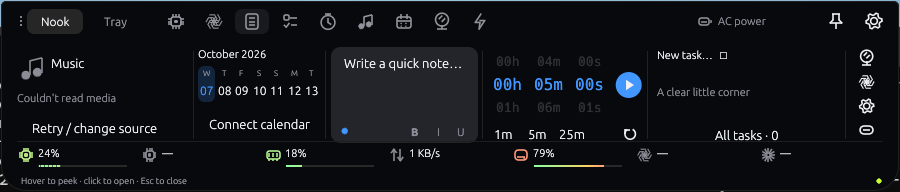
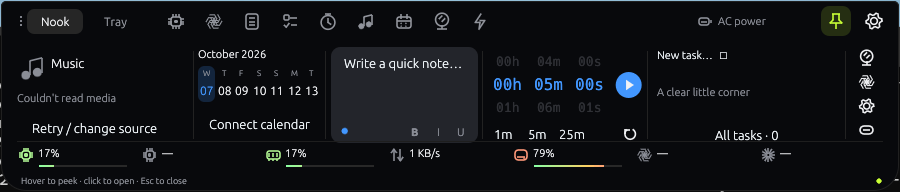
Document verified development-signed Nook build and target limitations

Changed region(s): [[0.9022, 0.0312, 0.9644, 0.1875], [0.3111, 0.7812, 0.3422, 0.8125], [0.0311, 0.7812, 0.0622, 0.8125]]

diff --git a/docs/VALIDATION.md b/docs/VALIDATION.md
@@ -15,7 +15,10 @@ Checked on 8 October 2026.
[1 lines of base64/hex data omitted]
 - The fresh replacement boundary found zero HUD processes and both earlier native package directories already absent. No Quit, forced termination or package deletion is claimed for that boundary. The stale owned Desktop shortcut, startup entry and backed-up unchanged legacy uninstall registration were retired/repaired during installation. The existing enabled startup choice was migrated to the replacement; installation did not enable a previously disabled choice.
 - Subsequent target Defender events 1116/1117 at 2026-10-07 19:49:22/24 UTC report `Behavior:Win32/Persistence.A!ml` and successful quarantine of the installed executable and Start Menu shortcut. The executable was absent and no target native HUD was running at the next check. Installation above is historical; target launch, explicit Nook selection and operational acceptance remain OPEN/BLOCKED. Legitimate opt-in startup/migration code is present, but the exact behavioral heuristic trigger and whether this is a false positive are unknown. No restore, protection exclusion or trust change is used as acceptance evidence.
-- Development Authenticode signing is being checked separately through the manual workflow; no completed development package, public publisher trust or Defender clearance is claimed until its receipt is recorded. Public alpha.6 update signatures remain distinct from OS signatures.
+- The first development-signing attempt [37682274154](https://github.com/ajaxcbcb/neon-hud/actions/runs/37682274154) passed build/tests but rejected the timestamp input. [Retry 37684027154](https://github.com/ajaxcbcb/neon-hud/actions/runs/37684027154) signed, then stalled in an unlocalized trust/verification stage and was cancelled; no package was accepted.
+- The [development-signed Nook run](https://github.com/ajaxcbcb/neon-hud/actions/runs/37689111604), source `4c116dc60ed43e36a3ff19d0c118805081aefb4f`, passed 49 native tests, locked formatting/dependencies and a fresh release build. SHA-256 Authenticode with an RFC3161 SHA-256 timestamp verified through SignTool and PowerShell under temporary hosted-VM trust. Exact Root/My certificates and persisted CNG keys were absent before packaging; injected exit-7 and timeout cases also passed cleanup. The packaged executable and public certificate hashes matched their signing receipt.
+- The signed binary passed actual collapsed/peek/expanded/pinned/Escape input, Controls before secondary release, all 11 Nook views, saved notes/tasks/running timer, executable/window icons and normal Quit with exit code 0. Its expanded [Nook capture](assets/native-nook.png) was inspected. The three downloaded evidence artifact digests matched GitHub metadata and the exact source/run bindings; only receipts and PNGs were saved locally, with no app executable or package extraction.
[1 lines of base64/hex data omitted]
 
 ## Native Nook alpha.5 acceptance
 

diff --git a/docs/releases/v0.2.0-alpha.6.md b/docs/releases/v0.2.0-alpha.6.md
@@ -39,7 +39,7 @@ Alpha.3 and later can use **Preferences → Startup & updates → Check now → 
 
 Alpha.6 [signed publication](https://github.com/ajaxcbcb/neon-hud/actions/runs/37662192273) passed Windows/Mac tests, builds, packaging, physical Windows controls and independent signature verification. All eight public asset sizes/digests, archive architecture and bundled notices were checked. The [public alpha.4-to-alpha.6 GUI update](https://github.com/ajaxcbcb/neon-hud/actions/runs/37663561512) passed actual Check/Download/Restart input, tamper rejection, normal replacement startup, retained Pill/settings/startup and replacement Controls/Settings/Quit. The earlier [exact-source acceptance](https://github.com/ajaxcbcb/neon-hud/actions/runs/37655666304) also passed. Target installation is checked separately in [Validation](../VALIDATION.md).
 
-The target installation subsequently had its executable quarantined by Windows Defender (`Behavior:Win32/Persistence.A!ml`). Target runtime and Nook selection remain blocked. Existing profiles retain Pill until Nook is explicitly selected. A separate self-signed development package is being verified; it is not publicly trusted signing, does not establish Defender clearance and does not alter this release's assets or updater feed.
+The target installation subsequently had its executable quarantined by Windows Defender (`Behavior:Win32/Persistence.A!ml`). Target runtime and Nook selection remain blocked. Existing profiles retain Pill until Nook is explicitly selected. The separate [self-signed development package](https://github.com/ajaxcbcb/neon-hud/actions/runs/37689111604) passed 49 native tests, timestamp/signature verification, certificate/key cleanup and physical Nook input. It is not publicly trusted signing, does not establish Defender clearance and does not alter this release's assets or updater feed.
 
 The verified public Windows package was installed on the target on 2026-10-08: all 14 extracted file hashes matched, original/native profiles and Claude configuration were retained, shortcuts were updated, and the previously enabled startup choice was preserved. This package installation is separate from the hosted updater proof above; target runtime checks are detailed in [Validation](../VALIDATION.md).
 

diff --git a/docs/releases/MAINTENANCE.md b/docs/releases/MAINTENANCE.md
@@ -18,6 +18,8 @@ Dispatch [native.yml](../../.github/workflows/native.yml) with `development_sign
 
 The `native-windows-self-signed-development` artifact contains the complete license-bearing ZIP, public `.cer`, signature receipt and checksums. Its honest publisher label is **Neon HUD Development**. Do not import its certificate into a user's trust stores or describe it as publicly trusted. Authenticode integrity, updater authenticity, Defender determination and observed target runtime are separate checks. This test artifact is not attached to a production release or written to an update feed. No private key or PFX is exported.
 
+[Accepted development run 37689111604](https://github.com/ajaxcbcb/neon-hud/actions/runs/37689111604), source `4c116dc60ed43e36a3ff19d0c118805081aefb4f`, passed all signing/cleanup/negative-case checks and physical signed Nook interactions. The download digests and receipt bindings were independently checked. Exact executable/ZIP hashes and the still-open target Defender/runtime gates are recorded in [Validation](../VALIDATION.md).
+
 Timestamping uses [DigiCert's documented RFC3161 endpoint](https://knowledge.digicert.com/solution/troubleshooting-timestamping-problems) with `/tr http://timestamp.digicert.com /td SHA256`; SignTool verifies the signed timestamp response. The job verifies the packaged executable/certificate hashes and records public signature metadata and archive checksums in its log.
 
 Signing, trust import and both independent verifiers have 120-second child-process limits and UTC stage diagnostics. The CI-only supervisor can stop only its own child tree. Injected nonzero-exit and timeout scenarios must confirm removal of the exact certificate and persisted key. A public metadata journal records their identity before any trust import, so an `always()` cleanup step can retry even after a partially completed import. Diagnostics upload on failure; no private key is exported. The signing step and cleanup step also have workflow deadlines. A forcibly terminated job cannot guarantee that `finally` executes; disposal of the GitHub-hosted VM is the last containment boundary, and no interrupted job supplies an accepted package.

diff --git a/README.md b/README.md
@@ -27,7 +27,7 @@ Actual Windows CI capture. The appearance preview is labeled **SAMPLE DATA**. Bu
 
 Keep the bundled license and notice files with the app. These are preview packages without OS code signing or macOS notarization. Native Intel Mac packages are not supplied in this release; the older WebView release has a universal Mac package.
 
-The target Windows alpha.6 executable was subsequently quarantined by Microsoft Defender; target launch and Nook acceptance remain blocked. A separate self-signed development build is being verified through the [development signing workflow](docs/releases/MAINTENANCE.md#self-signed-windows-development-build). Its certificate is not publicly trusted and does not clear a Defender detection. It does not replace the published alpha.6 assets or update feed.
+The target Windows alpha.6 executable was subsequently quarantined by Microsoft Defender; target launch and Nook acceptance remain blocked. The separate [self-signed development build](https://github.com/ajaxcbcb/neon-hud/actions/runs/37689111604) passed 49 native tests, timestamp/signature verification, certificate/key cleanup and physical Nook controls. Its certificate is not publicly trusted and does not establish Defender clearance. It does not replace the published alpha.6 assets or update feed. See [development signing](docs/releases/MAINTENANCE.md#self-signed-windows-development-build) and [validation](docs/VALIDATION.md) for the exact source and receipts.
 
 The first configuration step is **Appearance**, followed by **Connections** and **Preferences**. Pick Neon Circuit, Cyberpunk Night or Aurora, and Quiet, Playful or Chaotic motion. **Preferences → Instruments** chooses Nook or the floating pill, selected drives and metrics. **Preferences → Startup & updates** controls login startup and updates. Startup is opt-in; replacing an installation should preserve its existing enabled/disabled choice.
 

diff --git a/src-native/README.md b/src-native/README.md
@@ -17,7 +17,7 @@ In the floating pill, drag the dotted grip to move, double click it to compress,
 
 For an upgrade, leave the profile and shared bridge data intact, use the existing updater when supported, and retire the previous package only after the replacement launches. A portable ZIP has no NSIS setup/uninstaller. Keep bundled licenses and notices; update signatures are separate from OS code signing.
 
-Existing profiles retain Pill unless Nook is selected in Preferences. Layout lives in `nook-productivity.json` under `presentation.mode`; other settings, notes, tasks and timers must be retained when changing it. The target alpha.6 executable was quarantined by Defender, so its launch/layout acceptance is pending. [Development signing](../docs/releases/MAINTENANCE.md#self-signed-windows-development-build) produces a separate self-signed test package without public publisher trust or Defender clearance.
+Existing profiles retain Pill unless Nook is selected in Preferences. Layout lives in `nook-productivity.json` under `presentation.mode`; other settings, notes, tasks and timers must be retained when changing it. The target alpha.6 executable was quarantined by Defender, so its launch/layout acceptance is pending. The separate [development-signed build](https://github.com/ajaxcbcb/neon-hud/actions/runs/37689111604) passed signature/timestamp verification, exact temporary certificate/key cleanup and real Nook input. [Development signing](../docs/releases/MAINTENANCE.md#self-signed-windows-development-build) does not establish public publisher trust or Defender clearance, and this test package is outside the automatic-update feed.
 
 ## Interaction
 

diff --git a/CHANGELOG.md b/CHANGELOG.md
@@ -4,7 +4,7 @@ Current native preview: [0.2.0-alpha.6](https://github.com/ajaxcbcb/neon-hud/rel
 
 ## Unreleased
 
-- Separate Windows development-signing workflow: fresh locked native build, non-exportable ephemeral certificate, SHA-256 Authenticode/RFC3161 timestamp verification and labeled package with public certificate and receipt. Verification trust is confined to the disposable CI account and removed afterward. This is not publicly trusted publisher signing or Defender clearance; public update assets remain unchanged.
+- Separate Windows development-signing workflow: fresh locked native build, non-exportable ephemeral certificate, SHA-256 Authenticode/RFC3161 timestamp verification and labeled package with public certificate and receipt. Temporary trust is confined to the disposable hosted VM; exact certificate and persisted key removal gates packaging. Child tools have deadlines and UTC diagnostics, and injected exit/timeout cases check cleanup. The [accepted cloud run](https://github.com/ajaxcbcb/neon-hud/actions/runs/37689111604) passed 49 native tests, signing and physical Nook input. This is not publicly trusted publisher signing or Defender clearance; public update assets remain unchanged.
 - Document the target alpha.6 Defender quarantine and pending runtime/Nook acceptance. Explicit Nook selection is required when replacing a retained Pill profile.
 
 ## [0.2.0-alpha.6] - 2026-10-07

diff --git a/docs/FEATURES.md b/docs/FEATURES.md
@@ -10,6 +10,8 @@ Notes include B/I/U; tasks include completion and favourites; deadline timers in
 
 [Download alpha.6](https://github.com/ajaxcbcb/neon-hud/releases/tag/v0.2.0-alpha.6) · [Release notes](releases/v0.2.0-alpha.6.md) · [Native setup and controls](../src-native/README.md) · [Reference evidence](../reference-learning/notchnook/study.md) · [Validation](VALIDATION.md)
 
+The separate Windows [self-signed development build](https://github.com/ajaxcbcb/neon-hud/actions/runs/37689111604) passed timestamped Authenticode verification, temporary certificate/key cleanup and physical Nook interaction checks. It is a test artifact, outside public release assets and the updater feed. The target alpha.6 Defender quarantine remains unresolved; a development signature does not establish publicly trusted publisher status or target runtime acceptance.
+
 ### Measurements and attention
 
 | Metric | Numerical reading | Visual and attention behavior |
